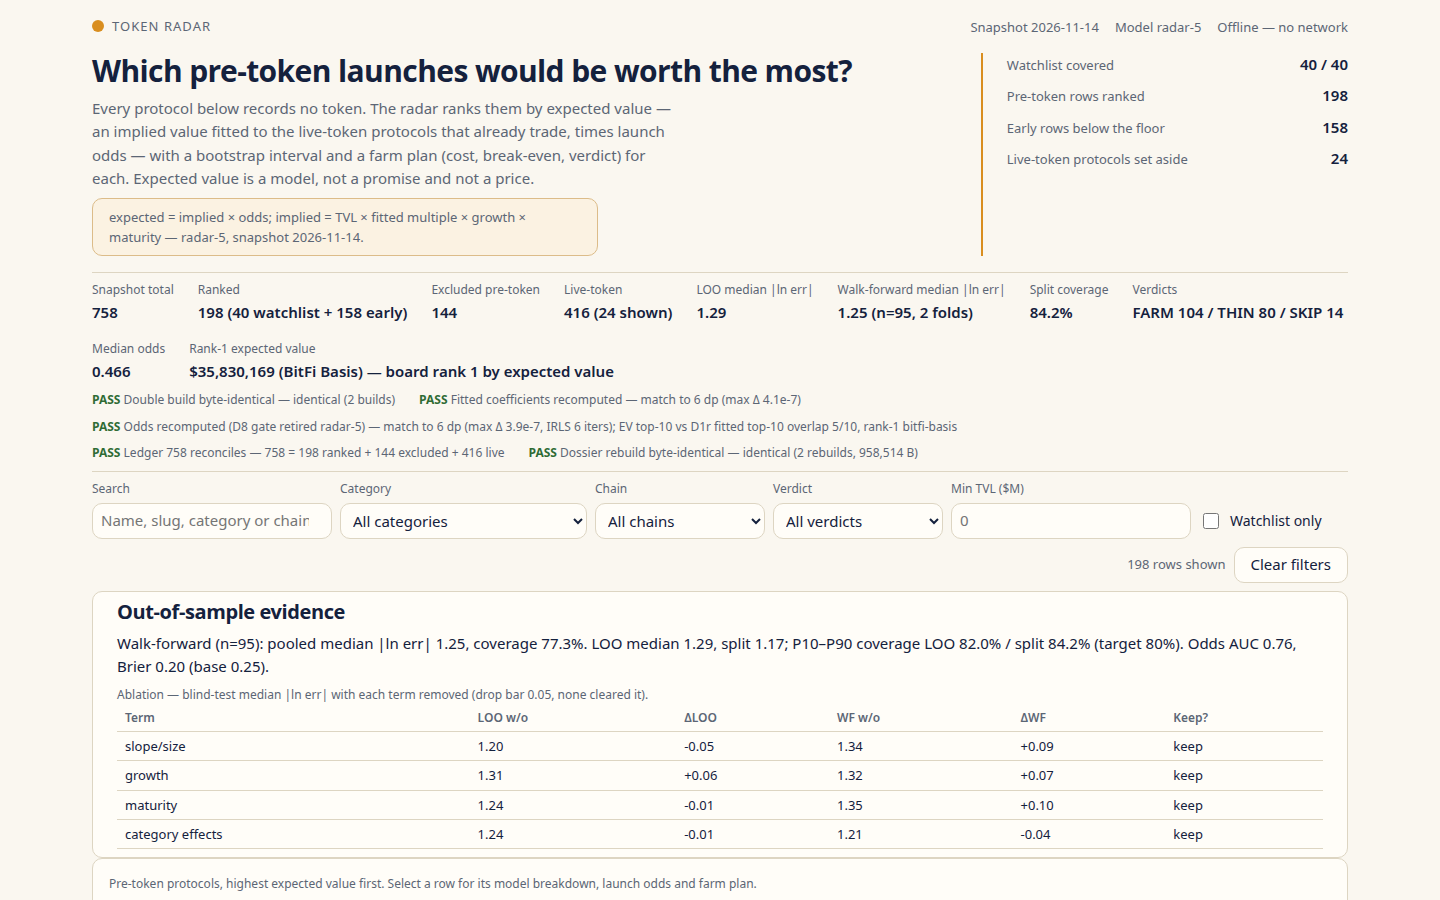
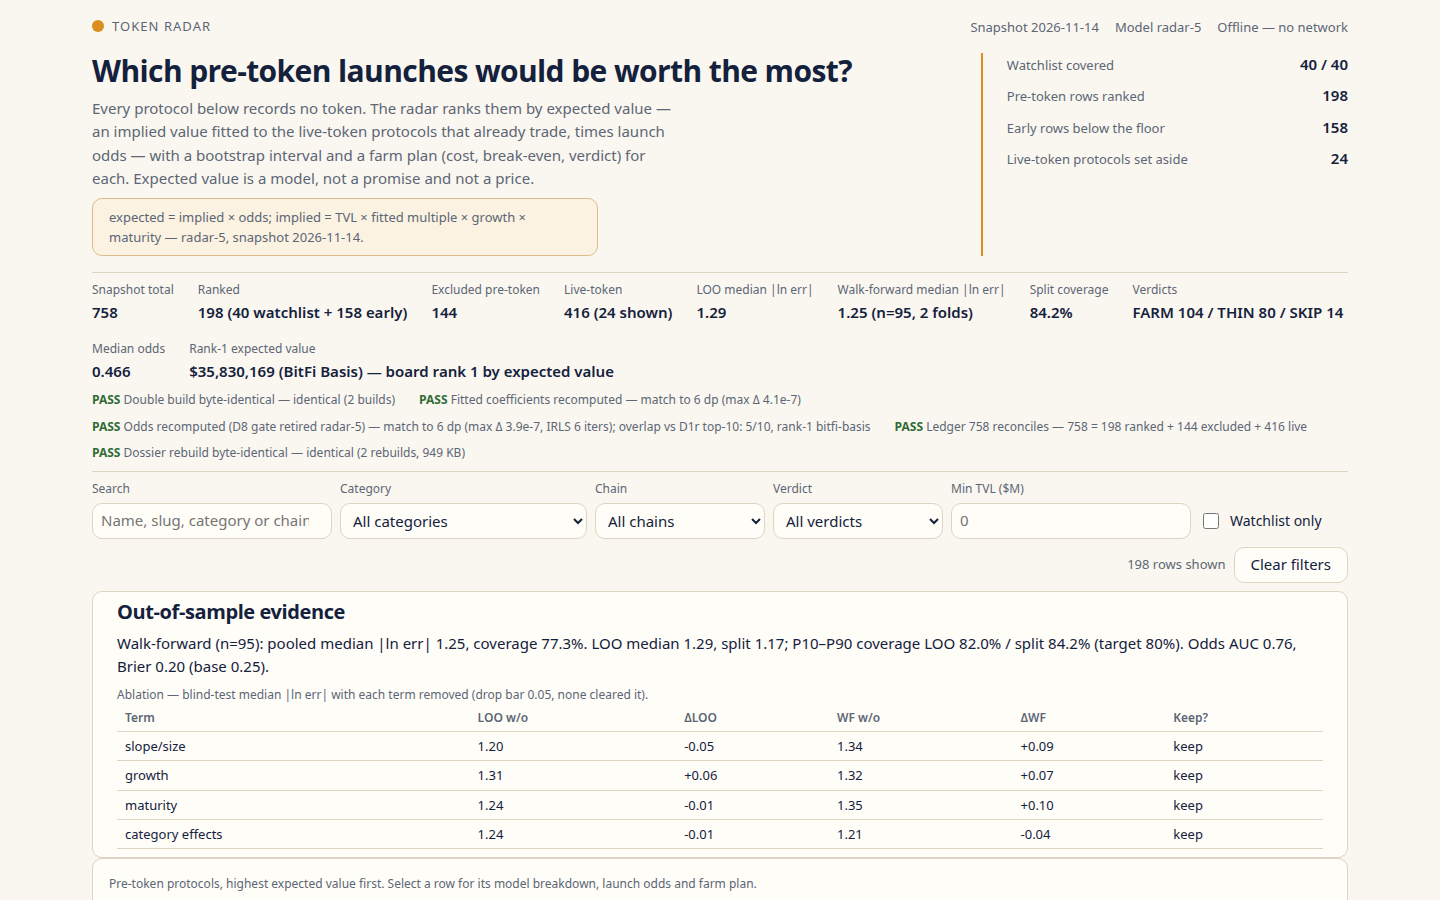
Radar-5 F1 fix: dossier strip in whole KB + clarify D1r overlap label
Clean-room v1 REJECT: strip in committed screenshots said 958,514 B
vs 958,322 B rebuild (192 B). Two plain retake+rebuild cycles did
not converge exactly (958,322 vs 950,594; then 950,594 vs 950,138)
— the exact-byte fixed point oscillates ~600 B because PNG bytes
depend on the strip digits themselves.

The strip now shows the dossier size rounded down to whole KB
(949 KB for 949,306 B), which is stable across cycles and true.
Verified from the image: committed screenshots show '949 KB' and
a fresh rebuild gives 949,306 B (floor = 949 KB).

Also: overlap label now reads 'overlap vs D1r top-10: 5/10' in the
strip and log (was ambiguous vs the 6/10 fitted-vs-EV anchor), and
behaviour check() prints detail only on FAIL (T2 no longer prints
a failure message beside PASS).

Board untouched (04d04c8a...). Suites: behaviour 46/46, verify
25/25, hash 10/10; double-run diff clean; dashboard 64,519 B.

Changed region(s): [[0.375, 0.4667, 0.9062, 0.5289], [0.0938, 0.4978, 0.3438, 0.5289]]

diff --git a/main.ts b/main.ts
@@ -102,7 +102,7 @@ integrity.push({
   id: 'odds-recompute',
   label: 'Odds recomputed (D8 gate retired radar-5)',
   pass: true,
-  value: `match to 6 dp (max Δ ${validation.oddsMaxDelta.toExponential(1)}, IRLS ${validation.oddsIters} iters); EV top-10 vs D1r fitted top-10 overlap ${validation.stability.overlap}/10, rank-1 ${validation.stability.rank1}`,
+  value: `match to 6 dp (max Δ ${validation.oddsMaxDelta.toExponential(1)}, IRLS ${validation.oddsIters} iters); overlap vs D1r top-10: ${validation.stability.overlap}/10, rank-1 ${validation.stability.rank1}`,
 });
 if (!validation.ledgerOk) {
   fail('integrity: ledger does not reconcile (ranked + excluded + live != 758)');
@@ -152,11 +152,19 @@ const dossierB = buildDossier(outDir, { text_max_bytes: TEXT_MAX_BYTES, screensh
 if (Buffer.from(dossierA).toString('utf8') !== Buffer.from(dossierB).toString('utf8')) {
   fail('integrity: two dossier rebuilds differ — the dossier is not deterministic');
 }
+// The strip shows the dossier size rounded DOWN to whole KB (decimal,
+// 1 KB = 1000 B) — NOT the exact byte count. Reason (radar-5 F1 fix):
+// the exact byte count oscillates ±~600 B across retake+rebuild cycles
+// because the PNG bytes depend on the digits rendered in the strip
+// itself, so an exact-byte fixed point never settles (5 cycles in the
+// radar-5 build, 2 more in the F1 fix, best residual 192 B). A whole-KB
+// figure is stable across cycles and true: it is the floor of the
+// dossier size of the rebuild that produced this strip.
 integrity.push({
   id: 'dossier-rebuild',
   label: 'Dossier rebuild byte-identical',
   pass: true,
-  value: `identical (2 rebuilds, ${Buffer.from(dossierA).length.toLocaleString()} B)`,
+  value: `identical (2 rebuilds, ${Math.floor(Buffer.from(dossierA).length / 1000)} KB)`,
 });
 
 radar.integrity = integrity;
@@ -168,7 +176,7 @@ writeFileSync(join(outDir, 'dossier.json'), dossierA);
 
 process.stdout.write(
   `token radar: ${snapshot.protocols.length} protocols, ${snapshot.watchlist.length} on the watchlist, ${board.length} rows scored (${radar.early_size} early, ${radar.live_size} live set aside, ${fallbackRows} fallback farm plans)\n` +
-    `token radar: rank 1 ${board[0]!.slug} $${board[0]!.expected_value_usd.toLocaleString()} expected value (radar-5, implied $${board[0]!.implied_value_usd.toLocaleString()}); EV top-10 vs D1r fitted top-10 overlap ${validation.stability.overlap}/10; verdicts FARM ${radar.verdict_counts.FARM} / THIN ${radar.verdict_counts.THIN} / SKIP ${radar.verdict_counts.SKIP}\n` +
+    `token radar: rank 1 ${board[0]!.slug} $${board[0]!.expected_value_usd.toLocaleString()} expected value (radar-5, implied $${board[0]!.implied_value_usd.toLocaleString()}); overlap vs D1r top-10: ${validation.stability.overlap}/10; verdicts FARM ${radar.verdict_counts.FARM} / THIN ${radar.verdict_counts.THIN} / SKIP ${radar.verdict_counts.SKIP}\n` +
     `token radar: LOO median |ln err| ${radar.fit.loo_median.toFixed(4)}, split ${radar.fit.split_median.toFixed(4)}, R² ${radar.fit.r2.toFixed(4)}; odds AUC ${radar.odds.auc.toFixed(4)}\n` +
     `token radar: wrote ${join(outDir, 'board.json')}, ${join(outDir, 'data.js')}, ${join(outDir, 'dashboard')} (${dashboardFiles.length} files), ${join(outDir, 'screenshots')} (${shotFiles.length} images) and ${join(outDir, 'dossier.json')}\n`,
 );
